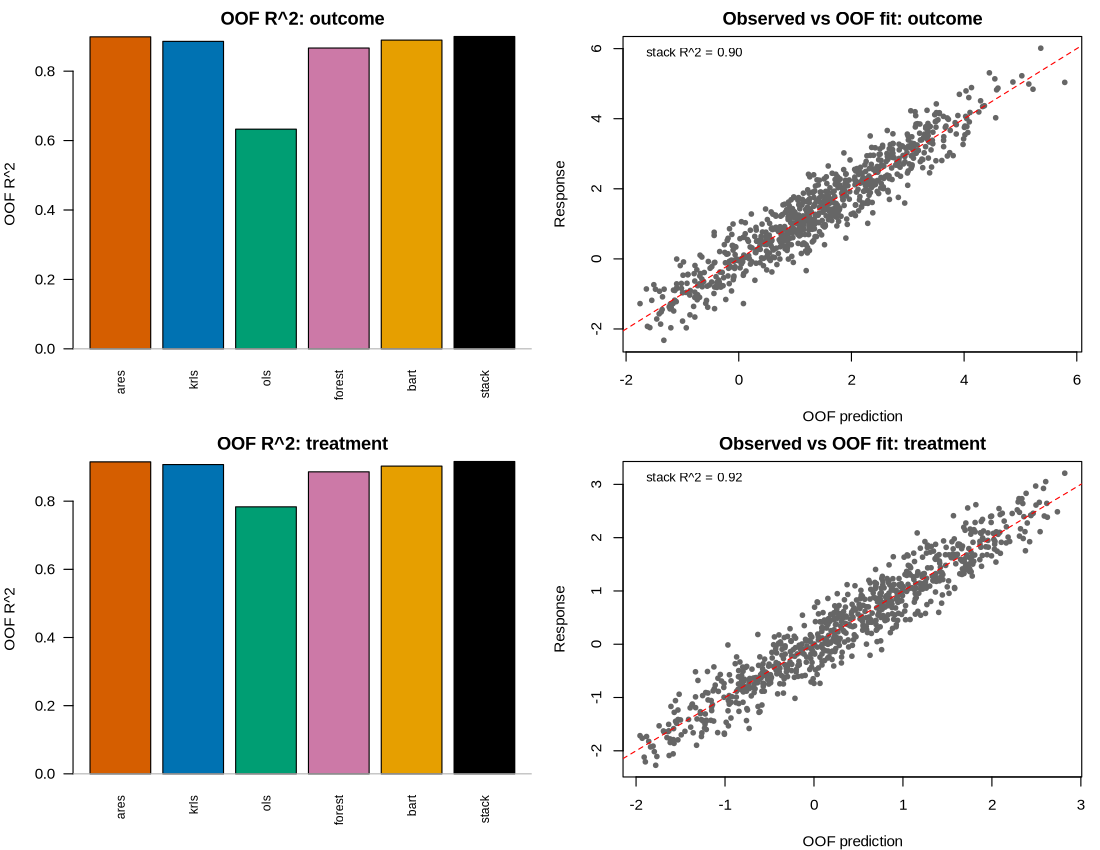
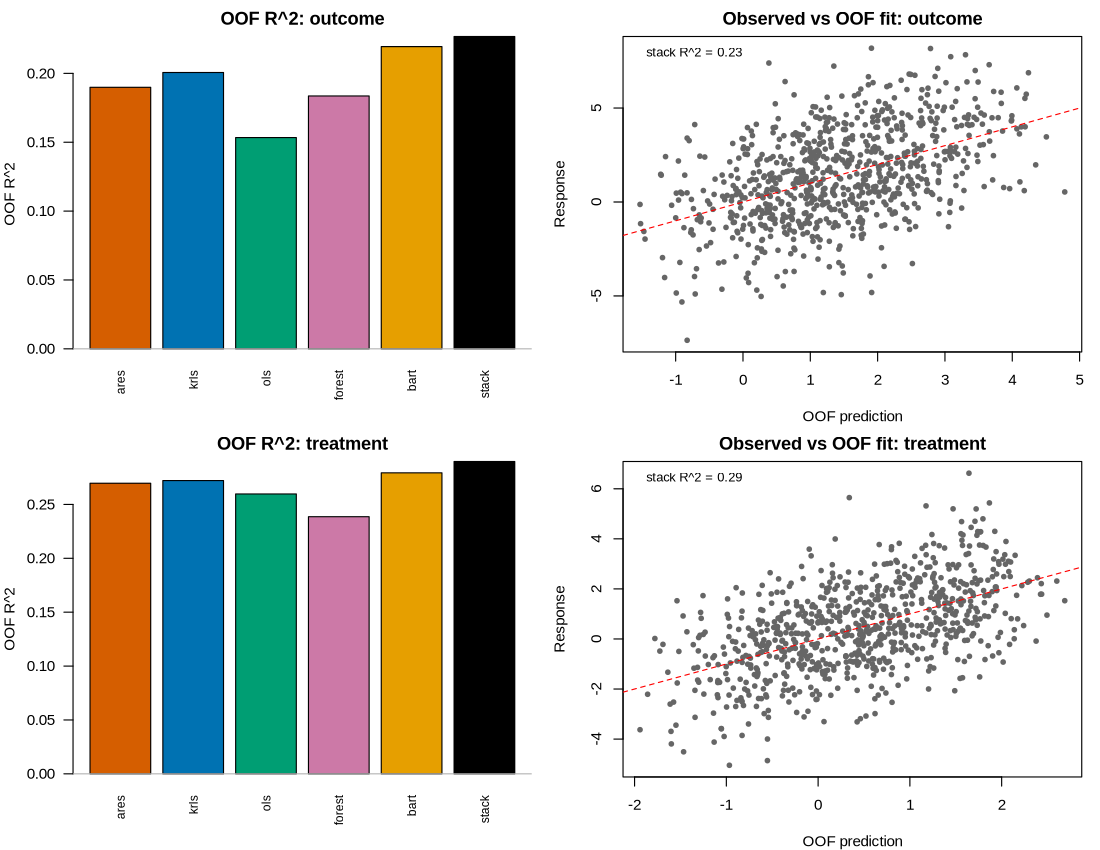
Deploying to gh-pages from @ CetiAlphaFive/roadrunner@777af9e5d1947ff05960172a934b64681508def2 🚀

diff --git a/index.html b/index.html
@@ -116,7 +116,7 @@
 <span></span>
 <span><span class="co"># Hands-free hyperparameter tuning</span></span>
 <span><span class="va">fitt</span> <span class="op">&lt;-</span> <span class="fu"><a href="reference/ares.html">ares</a></span><span class="op">(</span><span class="va">mpg</span> <span class="op">~</span> <span class="va">.</span>, data <span class="op">=</span> <span class="va">mtcars</span>, autotune <span class="op">=</span> <span class="cn">TRUE</span>,</span>
-<span>             autotune.speed <span class="op">=</span> <span class="st">"fast"</span>, seed.cv <span class="op">=</span> <span class="fl">1L</span><span class="op">)</span></span>
+<span>             autotune.speed <span class="op">=</span> <span class="st">"fast"</span>, seed.cv <span class="op">=</span> <span class="fl">1995L</span><span class="op">)</span></span>
 <span><span class="va">fitt</span><span class="op">$</span><span class="va">autotune</span><span class="op">$</span><span class="va">degree</span></span></code></pre></div>
 <p>See the <code>ares</code> vignette for autotune, classification, weights, bagging, and prediction-interval examples.</p>
 </div>
@@ -126,7 +126,7 @@
 </h3>
 <p><code><a href="reference/krls.html">krls()</a></code> fits a Kernel Regularized Least Squares model (Hainmueller and Hazlett 2014) with closed-form leave-one-out selection of the ridge penalty and per-observation marginal effects.</p>
 <div class="sourceCode" id="cb3"><pre class="downlit sourceCode r">
-<code class="sourceCode R"><span><span class="fu"><a href="https://rdrr.io/r/base/Random.html" class="external-link">set.seed</a></span><span class="op">(</span><span class="fl">1</span><span class="op">)</span></span>
+<code class="sourceCode R"><span><span class="fu"><a href="https://rdrr.io/r/base/Random.html" class="external-link">set.seed</a></span><span class="op">(</span><span class="fl">1995</span><span class="op">)</span></span>
 <span><span class="va">n</span> <span class="op">&lt;-</span> <span class="fl">200</span></span>
 <span><span class="va">X</span> <span class="op">&lt;-</span> <span class="fu"><a href="https://rdrr.io/r/base/matrix.html" class="external-link">matrix</a></span><span class="op">(</span><span class="fu"><a href="https://rdrr.io/r/stats/Normal.html" class="external-link">rnorm</a></span><span class="op">(</span><span class="va">n</span> <span class="op">*</span> <span class="fl">3</span><span class="op">)</span>, <span class="va">n</span>, <span class="fl">3</span><span class="op">)</span></span>
 <span><span class="va">y</span> <span class="op">&lt;-</span> <span class="fu"><a href="https://rdrr.io/r/base/Trig.html" class="external-link">sin</a></span><span class="op">(</span><span class="va">X</span><span class="op">[</span>, <span class="fl">1</span><span class="op">]</span><span class="op">)</span> <span class="op">+</span> <span class="fl">0.5</span> <span class="op">*</span> <span class="va">X</span><span class="op">[</span>, <span class="fl">2</span><span class="op">]</span><span class="op">^</span><span class="fl">2</span> <span class="op">-</span> <span class="fl">0.3</span> <span class="op">*</span> <span class="va">X</span><span class="op">[</span>, <span class="fl">3</span><span class="op">]</span> <span class="op">+</span> <span class="fu"><a href="https://rdrr.io/r/stats/Normal.html" class="external-link">rnorm</a></span><span class="op">(</span><span class="va">n</span>, sd <span class="op">=</span> <span class="fl">0.2</span><span class="op">)</span></span>
@@ -180,13 +180,13 @@
 </h3>
 <p><code><a href="reference/meep.html">meep()</a></code> cross-fits an ensemble of base learners and returns out-of-fold predictions designed to drop into Double Machine Learning (<code>DoubleML</code>) or causal forest (<code>grf</code>) implementations. The default learners are <code><a href="reference/ares.html">ares()</a></code>, <code><a href="reference/krls.html">krls()</a></code>, <code><a href="reference/ols.html">ols()</a></code>, <code><a href="reference/logreg.html">logreg()</a></code>, and <code><a href="reference/plda.html">plda()</a></code>, chosen automatically per nuisance by family: regression nuisances use <code>ares</code>/<code>krls</code>/<code>ols</code>, classification nuisances use <code>ares</code>/<code>krls</code>/<code>logreg</code>/<code>plda</code>.</p>
 <div class="sourceCode" id="cb7"><pre class="downlit sourceCode r">
-<code class="sourceCode R"><span><span class="fu"><a href="https://rdrr.io/r/base/Random.html" class="external-link">set.seed</a></span><span class="op">(</span><span class="fl">1</span><span class="op">)</span></span>
+<code class="sourceCode R"><span><span class="fu"><a href="https://rdrr.io/r/base/Random.html" class="external-link">set.seed</a></span><span class="op">(</span><span class="fl">1995</span><span class="op">)</span></span>
 <span><span class="va">n</span> <span class="op">&lt;-</span> <span class="fl">800</span></span>
 <span><span class="va">X</span> <span class="op">&lt;-</span> <span class="fu"><a href="https://rdrr.io/r/base/matrix.html" class="external-link">matrix</a></span><span class="op">(</span><span class="fu"><a href="https://rdrr.io/r/stats/Uniform.html" class="external-link">runif</a></span><span class="op">(</span><span class="va">n</span> <span class="op">*</span> <span class="fl">4</span>, <span class="op">-</span><span class="fl">2</span>, <span class="fl">2</span><span class="op">)</span>, <span class="va">n</span>, <span class="fl">4</span><span class="op">)</span></span>
-<span><span class="va">D</span> <span class="op">&lt;-</span> <span class="fu"><a href="https://rdrr.io/r/base/Trig.html" class="external-link">sin</a></span><span class="op">(</span><span class="va">X</span><span class="op">[</span>, <span class="fl">1</span><span class="op">]</span><span class="op">)</span> <span class="op">+</span> <span class="fl">0.5</span> <span class="op">*</span> <span class="va">X</span><span class="op">[</span>, <span class="fl">2</span><span class="op">]</span> <span class="op">+</span> <span class="fl">0.3</span> <span class="op">*</span> <span class="va">X</span><span class="op">[</span>, <span class="fl">3</span><span class="op">]</span><span class="op">^</span><span class="fl">2</span> <span class="op">+</span> <span class="fu"><a href="https://rdrr.io/r/stats/Normal.html" class="external-link">rnorm</a></span><span class="op">(</span><span class="va">n</span>, sd <span class="op">=</span> <span class="fl">0.3</span><span class="op">)</span></span>
-<span><span class="va">Y</span> <span class="op">&lt;-</span> <span class="va">D</span> <span class="op">+</span> <span class="fu"><a href="https://rdrr.io/r/base/Trig.html" class="external-link">cos</a></span><span class="op">(</span><span class="va">X</span><span class="op">[</span>, <span class="fl">1</span><span class="op">]</span><span class="op">)</span> <span class="op">+</span> <span class="fl">0.4</span> <span class="op">*</span> <span class="va">X</span><span class="op">[</span>, <span class="fl">2</span><span class="op">]</span><span class="op">^</span><span class="fl">2</span> <span class="op">+</span> <span class="fl">0.5</span> <span class="op">*</span> <span class="va">X</span><span class="op">[</span>, <span class="fl">3</span><span class="op">]</span> <span class="op">+</span> <span class="fu"><a href="https://rdrr.io/r/stats/Normal.html" class="external-link">rnorm</a></span><span class="op">(</span><span class="va">n</span>, sd <span class="op">=</span> <span class="fl">0.3</span><span class="op">)</span></span>
+<span><span class="va">D</span> <span class="op">&lt;-</span> <span class="fu"><a href="https://rdrr.io/r/base/Trig.html" class="external-link">sin</a></span><span class="op">(</span><span class="va">X</span><span class="op">[</span>, <span class="fl">1</span><span class="op">]</span><span class="op">)</span> <span class="op">+</span> <span class="fl">0.5</span> <span class="op">*</span> <span class="va">X</span><span class="op">[</span>, <span class="fl">2</span><span class="op">]</span> <span class="op">+</span> <span class="fl">0.3</span> <span class="op">*</span> <span class="va">X</span><span class="op">[</span>, <span class="fl">3</span><span class="op">]</span><span class="op">^</span><span class="fl">2</span> <span class="op">+</span> <span class="fu"><a href="https://rdrr.io/r/stats/Normal.html" class="external-link">rnorm</a></span><span class="op">(</span><span class="va">n</span>, sd <span class="op">=</span> <span class="fl">1.5</span><span class="op">)</span></span>
+<span><span class="va">Y</span> <span class="op">&lt;-</span> <span class="va">D</span> <span class="op">+</span> <span class="fu"><a href="https://rdrr.io/r/base/Trig.html" class="external-link">cos</a></span><span class="op">(</span><span class="va">X</span><span class="op">[</span>, <span class="fl">1</span><span class="op">]</span><span class="op">)</span> <span class="op">+</span> <span class="fl">0.4</span> <span class="op">*</span> <span class="va">X</span><span class="op">[</span>, <span class="fl">2</span><span class="op">]</span><span class="op">^</span><span class="fl">2</span> <span class="op">+</span> <span class="fl">0.5</span> <span class="op">*</span> <span class="va">X</span><span class="op">[</span>, <span class="fl">3</span><span class="op">]</span> <span class="op">+</span> <span class="fu"><a href="https://rdrr.io/r/stats/Normal.html" class="external-link">rnorm</a></span><span class="op">(</span><span class="va">n</span>, sd <span class="op">=</span> <span class="fl">1.5</span><span class="op">)</span></span>
 <span></span>
-<span><span class="va">m</span>  <span class="op">&lt;-</span> <span class="fu"><a href="reference/meep.html">meep</a></span><span class="op">(</span><span class="va">X</span>, <span class="va">Y</span>, treatment <span class="op">=</span> <span class="va">D</span>, folds <span class="op">=</span> <span class="fl">5</span>, seed <span class="op">=</span> <span class="fl">42</span><span class="op">)</span></span>
+<span><span class="va">m</span>  <span class="op">&lt;-</span> <span class="fu"><a href="reference/meep.html">meep</a></span><span class="op">(</span><span class="va">X</span>, <span class="va">Y</span>, treatment <span class="op">=</span> <span class="va">D</span>, folds <span class="op">=</span> <span class="fl">5</span>, seed <span class="op">=</span> <span class="fl">1995</span><span class="op">)</span></span>
 <span><span class="va">m</span><span class="op">$</span><span class="va">y_hat_oof</span>   <span class="co"># cross-fitted E[Y | X]</span></span>
 <span><span class="va">m</span><span class="op">$</span><span class="va">d_hat_oof</span>   <span class="co"># cross-fitted E[D | X]</span></span>
 <span></span>
@@ -194,7 +194,7 @@
 <span><span class="co"># grf::causal_forest(X, Y, D, Y.hat = m$y_hat_oof, W.hat = m$d_hat_oof)</span></span></code></pre></div>
 <p>On smooth, structured signal the ensemble fits the nuisances more tightly than <code>grf</code>’s built-in regression forests (out-of-bag vs out-of-fold R-squared on the toy above):</p>
 <div class="sourceCode" id="cb8"><pre class="downlit sourceCode r">
-<code class="sourceCode R"><span><span class="va">cf</span> <span class="op">&lt;-</span> <span class="fu">grf</span><span class="fu">::</span><span class="fu"><a href="https://rdrr.io/pkg/grf/man/causal_forest.html" class="external-link">causal_forest</a></span><span class="op">(</span><span class="va">X</span>, <span class="va">Y</span>, <span class="va">D</span>, seed <span class="op">=</span> <span class="fl">42</span><span class="op">)</span></span>
+<code class="sourceCode R"><span><span class="va">cf</span> <span class="op">&lt;-</span> <span class="fu">grf</span><span class="fu">::</span><span class="fu"><a href="https://rdrr.io/pkg/grf/man/causal_forest.html" class="external-link">causal_forest</a></span><span class="op">(</span><span class="va">X</span>, <span class="va">Y</span>, <span class="va">D</span>, seed <span class="op">=</span> <span class="fl">1995</span><span class="op">)</span></span>
 <span><span class="va">r2</span> <span class="op">&lt;-</span> <span class="kw">function</span><span class="op">(</span><span class="va">p</span>, <span class="va">a</span><span class="op">)</span> <span class="fl">1</span> <span class="op">-</span> <span class="fu"><a href="https://rdrr.io/r/base/sum.html" class="external-link">sum</a></span><span class="op">(</span><span class="op">(</span><span class="va">a</span> <span class="op">-</span> <span class="va">p</span><span class="op">)</span><span class="op">^</span><span class="fl">2</span><span class="op">)</span> <span class="op">/</span> <span class="fu"><a href="https://rdrr.io/r/base/sum.html" class="external-link">sum</a></span><span class="op">(</span><span class="op">(</span><span class="va">a</span> <span class="op">-</span> <span class="fu"><a href="https://rdrr.io/r/base/mean.html" class="external-link">mean</a></span><span class="op">(</span><span class="va">a</span><span class="op">)</span><span class="op">)</span><span class="op">^</span><span class="fl">2</span><span class="op">)</span></span>
 <span></span>
 <span><span class="fu"><a href="https://rdrr.io/r/base/data.frame.html" class="external-link">data.frame</a></span><span class="op">(</span></span>
@@ -203,11 +203,11 @@
 <span>  meep_oof_r2 <span class="op">=</span> <span class="fu"><a href="https://rdrr.io/r/base/c.html" class="external-link">c</a></span><span class="op">(</span><span class="fu">r2</span><span class="op">(</span><span class="va">m</span><span class="op">$</span><span class="va">y_hat_oof</span>, <span class="va">Y</span><span class="op">)</span>,  <span class="fu">r2</span><span class="op">(</span><span class="va">m</span><span class="op">$</span><span class="va">d_hat_oof</span>, <span class="va">D</span><span class="op">)</span><span class="op">)</span></span>
 <span><span class="op">)</span></span>
 <span><span class="co">#&gt;  nuisance grf_oob_r2 meep_oof_r2</span></span>
-<span><span class="co">#&gt;    E[Y|X]      0.854       0.900</span></span>
-<span><span class="co">#&gt;    E[D|X]      0.865       0.916</span></span></code></pre></div>
+<span><span class="co">#&gt;    E[Y|X]      0.207       0.210</span></span>
+<span><span class="co">#&gt;    E[D|X]      0.264       0.280</span></span></code></pre></div>
 <p>Add gradient-boosted trees to the stack with <code>extra.learners</code> (the external packages stay optional – you install them yourself), and use <code><a href="https://rdrr.io/r/graphics/plot.default.html" class="external-link">plot()</a></code> for a quick read on each learner and the stack – ROC curves for binary nuisances, OOF R-squared and observed-vs-predicted for continuous ones:</p>
 <div class="sourceCode" id="cb9"><pre class="downlit sourceCode r">
-<code class="sourceCode R"><span><span class="va">m2</span> <span class="op">&lt;-</span> <span class="fu"><a href="reference/meep.html">meep</a></span><span class="op">(</span><span class="va">X</span>, <span class="va">Y</span>, treatment <span class="op">=</span> <span class="va">D</span>, folds <span class="op">=</span> <span class="fl">5</span>, seed <span class="op">=</span> <span class="fl">42</span>,</span>
+<code class="sourceCode R"><span><span class="va">m2</span> <span class="op">&lt;-</span> <span class="fu"><a href="reference/meep.html">meep</a></span><span class="op">(</span><span class="va">X</span>, <span class="va">Y</span>, treatment <span class="op">=</span> <span class="va">D</span>, folds <span class="op">=</span> <span class="fl">5</span>, seed <span class="op">=</span> <span class="fl">1995</span>,</span>
 <span>           extra.learners <span class="op">=</span> <span class="fu"><a href="https://rdrr.io/r/base/c.html" class="external-link">c</a></span><span class="op">(</span><span class="st">"forest"</span>, <span class="st">"BART"</span><span class="op">)</span><span class="op">)</span>   <span class="co"># ranger + dbarts</span></span>
 <span><span class="fu"><a href="https://rdrr.io/r/graphics/plot.default.html" class="external-link">plot</a></span><span class="op">(</span><span class="va">m2</span><span class="op">)</span></span></code></pre></div>
 <div class="float">

diff --git a/index.md b/index.md
@@ -74,7 +74,7 @@ predict(fitc)
 
 # Hands-free hyperparameter tuning
 fitt <- ares(mpg ~ ., data = mtcars, autotune = TRUE,
-             autotune.speed = "fast", seed.cv = 1L)
+             autotune.speed = "fast", seed.cv = 1995L)
 fitt$autotune$degree
 ```
 
@@ -90,7 +90,7 @@ per-observation marginal effects.
 
 ``` r
 
-set.seed(1)
+set.seed(1995)
 n <- 200
 X <- matrix(rnorm(n * 3), n, 3)
 y <- sin(X[, 1]) + 0.5 * X[, 2]^2 - 0.3 * X[, 3] + rnorm(n, sd = 0.2)
@@ -176,13 +176,13 @@ chosen automatically per nuisance by family: regression nuisances use
 
 ``` r
 
-set.seed(1)
+set.seed(1995)
 n <- 800
 X <- matrix(runif(n * 4, -2, 2), n, 4)
-D <- sin(X[, 1]) + 0.5 * X[, 2] + 0.3 * X[, 3]^2 + rnorm(n, sd = 0.3)
-Y <- D + cos(X[, 1]) + 0.4 * X[, 2]^2 + 0.5 * X[, 3] + rnorm(n, sd = 0.3)
+D <- sin(X[, 1]) + 0.5 * X[, 2] + 0.3 * X[, 3]^2 + rnorm(n, sd = 1.5)
+Y <- D + cos(X[, 1]) + 0.4 * X[, 2]^2 + 0.5 * X[, 3] + rnorm(n, sd = 1.5)
 
-m  <- meep(X, Y, treatment = D, folds = 5, seed = 42)
+m  <- meep(X, Y, treatment = D, folds = 5, seed = 1995)
 m$y_hat_oof   # cross-fitted E[Y | X]
 m$d_hat_oof   # cross-fitted E[D | X]
 
@@ -196,7 +196,7 @@ out-of-fold R-squared on the toy above):
 
 ``` r
 
-cf <- grf::causal_forest(X, Y, D, seed = 42)
+cf <- grf::causal_forest(X, Y, D, seed = 1995)
 r2 <- function(p, a) 1 - sum((a - p)^2) / sum((a - mean(a))^2)
 
 data.frame(
@@ -205,8 +205,8 @@ data.frame(
   meep_oof_r2 = c(r2(m$y_hat_oof, Y),  r2(m$d_hat_oof, D))
 )
 #>  nuisance grf_oob_r2 meep_oof_r2
-#>    E[Y|X]      0.854       0.900
-#>    E[D|X]      0.865       0.916
+#>    E[Y|X]      0.207       0.210
+#>    E[D|X]      0.264       0.280
 ```
 
 Add gradient-boosted trees to the stack with `extra.learners` (the
@@ -217,7 +217,7 @@ OOF R-squared and observed-vs-predicted for continuous ones:
 
 ``` r
 
-m2 <- meep(X, Y, treatment = D, folds = 5, seed = 42,
+m2 <- meep(X, Y, treatment = D, folds = 5, seed = 1995,
            extra.learners = c("forest", "BART"))   # ranger + dbarts
 plot(m2)
 ```